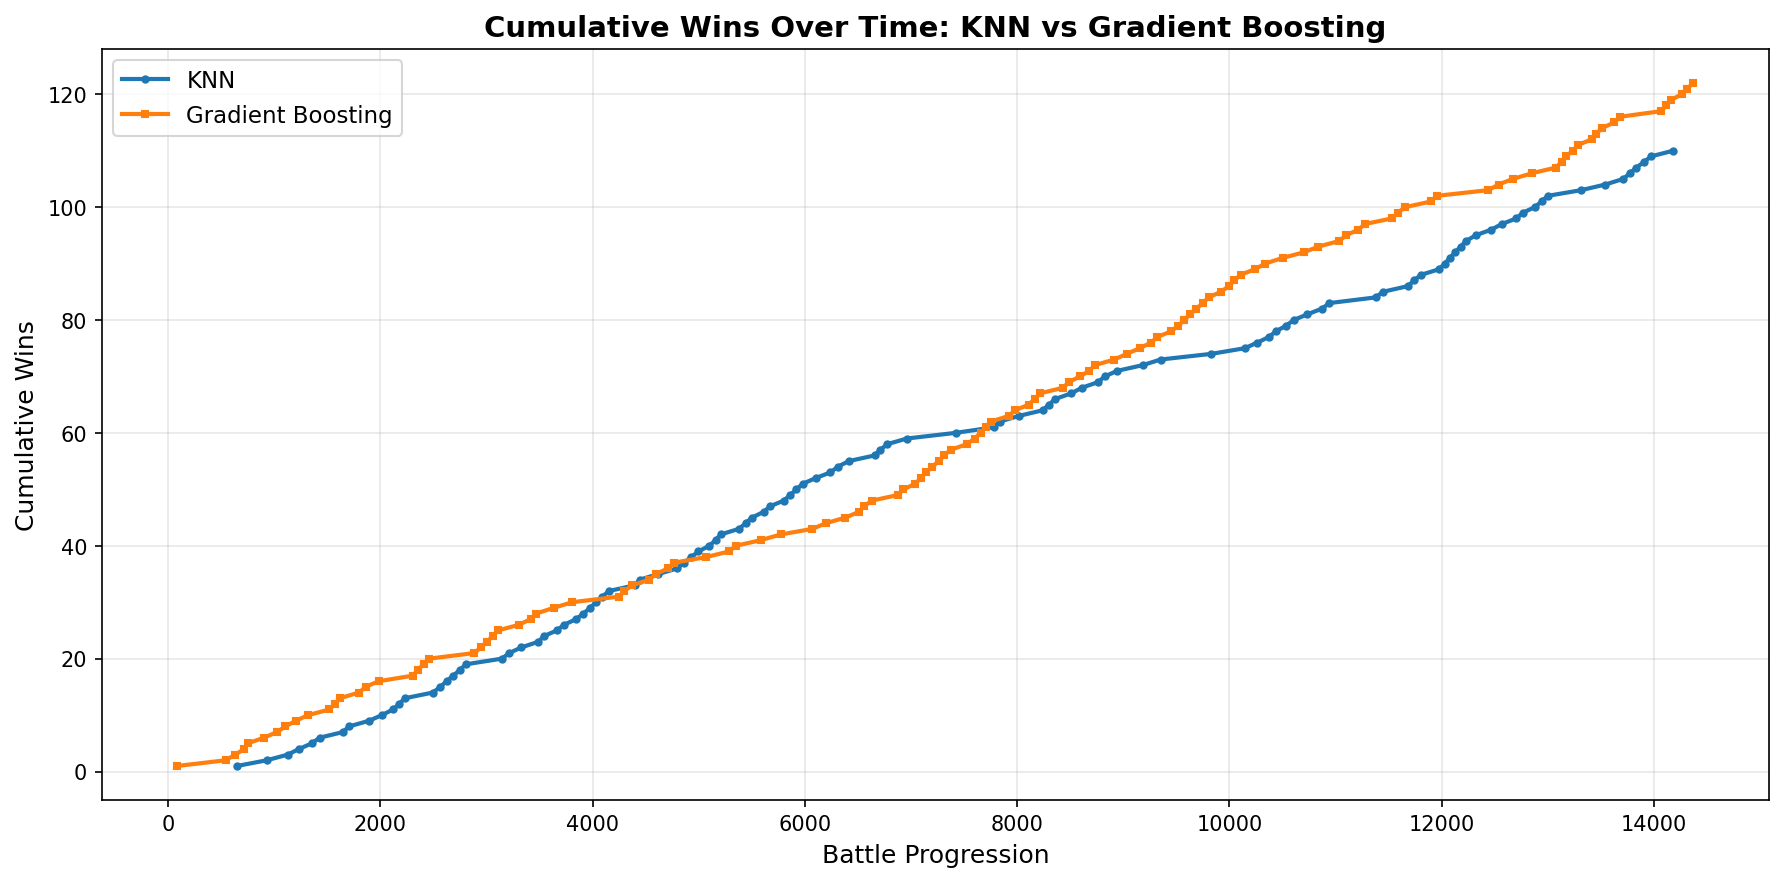
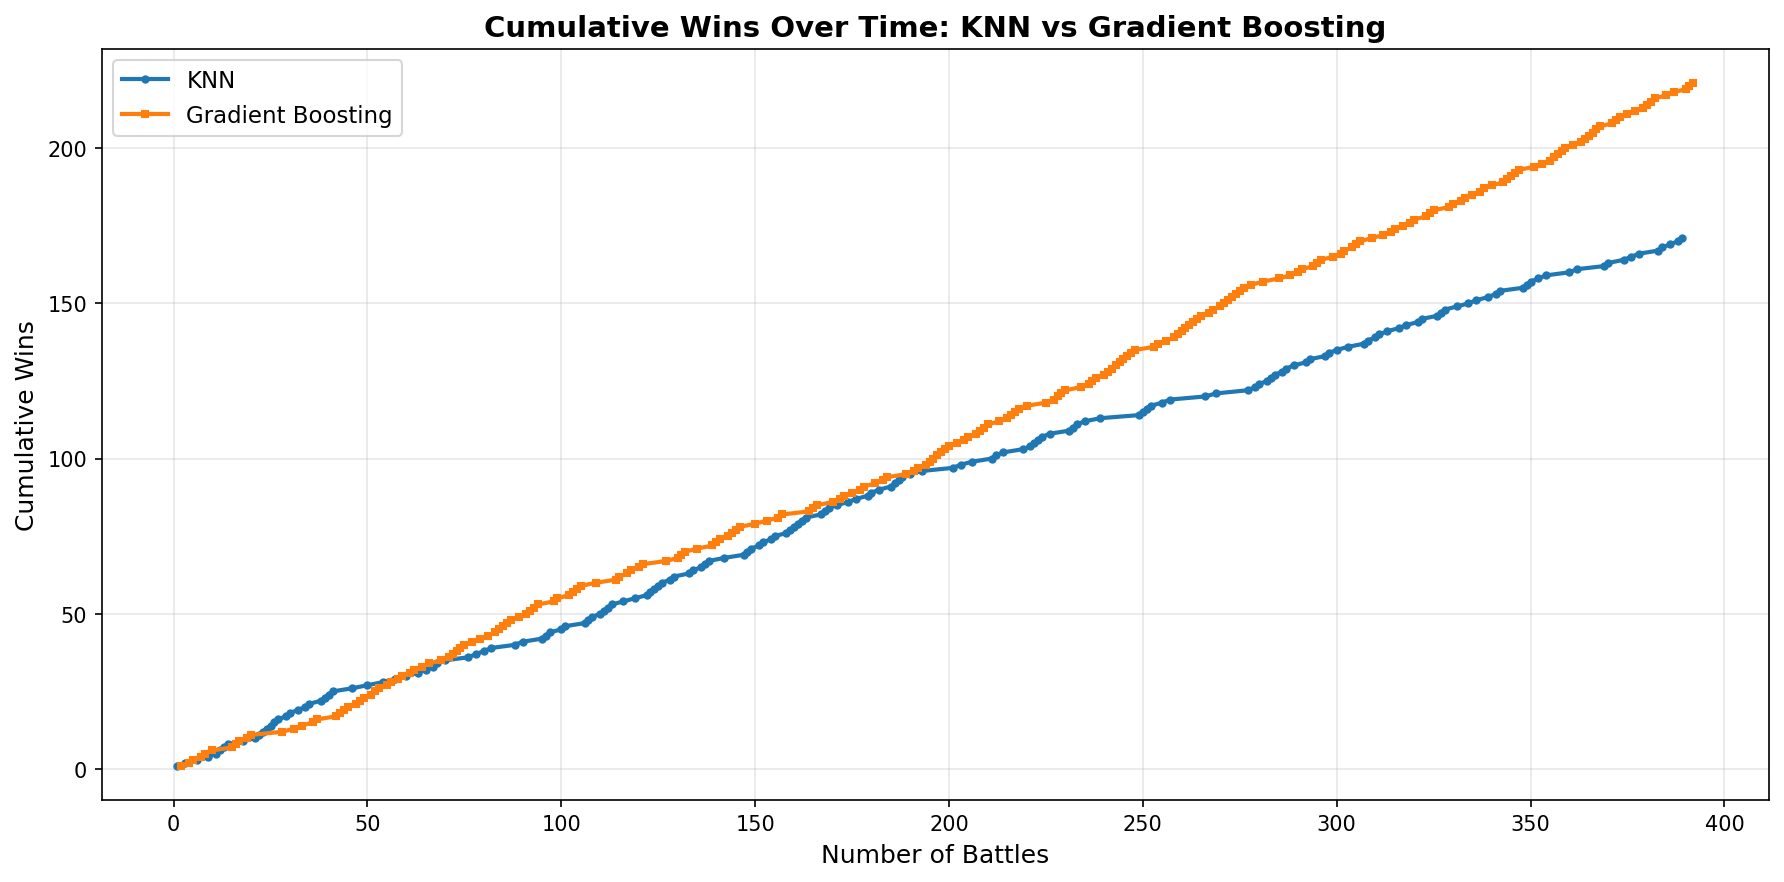
cool graph

diff --git a/README.md b/README.md
@@ -4,7 +4,7 @@ showdown_warrior is a framework for exploring how different machine learning met
 
 ## Motivation
 
-Pokemon battles have complex, high-dimensional state spaces. Traditional deep learning approaches would encode this full state, including perhaps history, and learn end-to-end.
+Pokemon battles have complex, high-dimensional state spaces. Traditional deep learning approaches would encode this full state, including history, and learn end-to-end.
 
 This project takes a different approach: we hand-craft a small set of features that capture the essence of a (gen 1) battle decision, intentionally leaving out subtleties, then compare how various ML methods learn from this compressed representation, and what bits of strategy they are able to pick up. The current feature set includes:
 
@@ -79,13 +79,17 @@ I would like integration testing to be easier than just running a continuous bat
 
 I would also like to analyze what types of tactics the bots can learn from the condensed feature set, in addition to just tracking win rate for different models. I expect the bots to at least be able to learn that going for the KO when available is usually a good strategy, as well as avoiding known immediate KO risks. I expect GB to be able to learn this more quickly (see below).
 
+We should skip authentication for local battles.
+
+We should make K in KNN more flexible and add distance-weighting options.
+
 ## Ethics
 
 This bot is intended for testing and research. Do not use it to challenge random players on the official Pokemon Showdown server. For large-scale training or continuous testing, host your own Showdown instance.
 
 ## Analysis
 
-The following graph shows cumulative wins over time for the KNN and Gradient Boosting methods over time, playing against each other. It suggests that GB might have gained a slight edge over KNN on the limited feature set, but more data is needed to conclude that it has truly pulled away.
+The following graph shows cumulative wins over time for the KNN and Gradient Boosting methods over time, playing against each other. It suggests that GB has gained an advantage over KNN on the limited feature set. Both bots have access to the same data (wins and losses) on each run, so this supports the idea that GB is better able to pull relevant information out of the data in this case.
 
 ![Cumulative Wins Over Time](./cumulative_wins.png)
 
